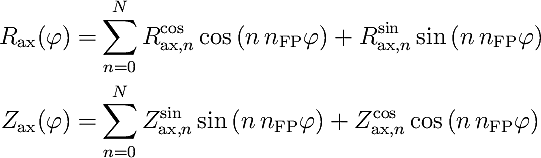
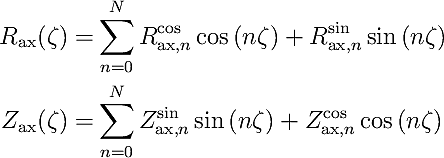
magnetic axis: use zeta in eqn

diff --git a/eqn/magn_axis.tex b/eqn/magn_axis.tex
@@ -13,10 +13,10 @@
 
 \begin{document}
 \begin{align*}
-R_\mathrm{ax}(\varphi) =& \sum\limits_{n=0}^{N}   R_{\mathrm{ax}, n}^\mathrm{cos} \cos \left( n \, n_\mathrm{FP} \varphi \right)
-                                                + R_{\mathrm{ax}, n}^\mathrm{sin} \sin \left( n \, n_\mathrm{FP} \varphi \right) \\
-Z_\mathrm{ax}(\varphi) =& \sum\limits_{n=0}^{N}   Z_{\mathrm{ax}, n}^\mathrm{sin} \sin \left( n \, n_\mathrm{FP} \varphi \right)
-                                                + Z_{\mathrm{ax}, n}^\mathrm{cos} \cos \left( n \, n_\mathrm{FP} \varphi \right)
+R_\mathrm{ax}(\zeta) =& \sum\limits_{n=0}^{N}   R_{\mathrm{ax}, n}^\mathrm{cos} \cos \left( n \zeta \right)
+                                              + R_{\mathrm{ax}, n}^\mathrm{sin} \sin \left( n \zeta \right) \\
+Z_\mathrm{ax}(\zeta) =& \sum\limits_{n=0}^{N}   Z_{\mathrm{ax}, n}^\mathrm{sin} \sin \left( n \zeta \right)
+                                              + Z_{\mathrm{ax}, n}^\mathrm{cos} \cos \left( n \zeta \right)
 \end{align*}
 \end{document}
 

diff --git a/eqn/magn_axis_stellsym.tex b/eqn/magn_axis_stellsym.tex
@@ -13,8 +13,8 @@
 
 \begin{document}
 \begin{align*}
-R_\mathrm{ax}(\varphi) =& \sum\limits_{n=0}^{N}   R_{\mathrm{ax}, n}^\mathrm{cos} \cos \left( n \, n_\mathrm{FP} \varphi \right) \\
-Z_\mathrm{ax}(\varphi) =& \sum\limits_{n=0}^{N}   Z_{\mathrm{ax}, n}^\mathrm{sin} \sin \left( n \, n_\mathrm{FP} \varphi \right)
+R_\mathrm{ax}(\zeta) =& \sum\limits_{n=0}^{N}   R_{\mathrm{ax}, n}^\mathrm{cos} \cos \left( n \zeta \right) \\
+Z_\mathrm{ax}(\zeta) =& \sum\limits_{n=0}^{N}   Z_{\mathrm{ax}, n}^\mathrm{sin} \sin \left( n \zeta \right)
 \end{align*}
 \end{document}
 
